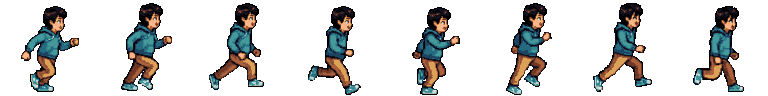
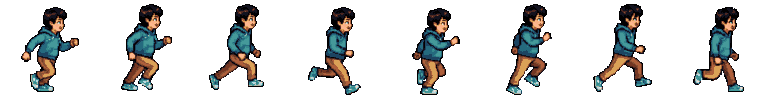
Let the girl run, and stop the export's canvas deciding sprite size
trainer-girl gets the run clip the boy has had since V0.10, so the two hero
runners are finally the same style and both move.

Importing it exposed the fill bug a second time, in a form the first fix did
not cover. PAD was made a preference when one pixel of union-box height flipped
the boy from 2x to 1x. The girl's run clip put her box at 58x93 inside a 184
canvas, and 93x2 is 186 — two pixels too tall however the padding is counted.
She imported at 1x and 5% fill, which is exactly the speck this script exists
to prevent. The boy escaped only because his export happened to arrive at 188.

The export's canvas was never the right thing to measure against. It is not a
render target: it is downsampled straight to 96/48/32, so its only real job is
to hold the figure. Inheriting it meant a generation's arbitrary padding
decided how big the character came out.

So the scale is chosen first and the canvas sized to fit it, with doubling as
the floor — exports arrive at 4-8% fill and 1x would ship that. A source roomy
enough for 3x still gets 3x. The girl now lands at 20% on a 190px canvas, and
the boy is re-imported on the same rule.

diff --git a/src/lib/assets.ts b/src/lib/assets.ts
@@ -134,7 +134,7 @@ export const SHEETS: Record<SheetId, SheetMeta> = {
   "trainer-boy": { tiers: [96, 48, 32], clips: { run: 8 } },
   // Regenerated in the web app alongside the boy, so she has his tier shape
   // rather than the API cast's. Her old 128 master is retired next to his.
-  "trainer-girl": { tiers: [96, 48, 32] },
+  "trainer-girl": { tiers: [96, 48, 32], clips: { run: 8 } },
   professor: EVERY_TIER,
   "fire-1": EVERY_TIER,
   "fire-2": EVERY_TIER,
